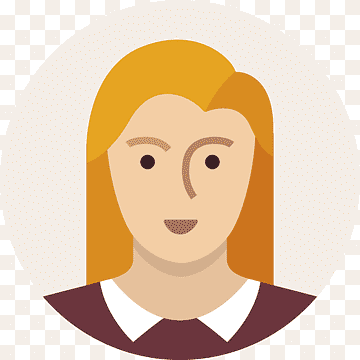
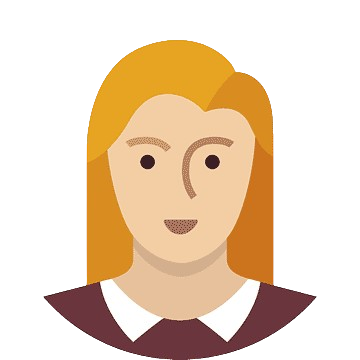
alteração layout segunda parte

diff --git a/src/pages/Home/Home.jsx b/src/pages/Home/Home.jsx
@@ -1,6 +1,6 @@
 import React, { useState, useContext, useEffect } from "react";
 import Button from "../../components/Button";
-import avatarVazio from "../../../src/assets/avatar-vazio.jpg";
+import avatarVazio from "../../../src/assets/avatar-vazio.png";
 import avatarFeminino from "../../../src/assets/avatar-feminino.png";
 import avatarMasculino from "../../../src/assets/avatar-masculino.png";
 import useLogout from "../../hooks/useLogout";
@@ -67,16 +67,8 @@ function Home() {
     setModalOpen(true);
   };
 
-  let avatarPacient;
+  const imgPacient = gender === "Feminino" ? avatarFeminino : gender === "Masculino" ? avatarMasculino : avatarVazio
 
-  switch (avatarPacient) {
-    case "":
-      
-      break;
-  
-    default:
-      break;
-  }
 
   return (
     <>
@@ -98,18 +90,15 @@ function Home() {
               <div className="container-patient">
                 <div className="section-flex">
                   <div className="patient-avatar">
-                    <img src={
-                      gender === "masculino" ?
-                      avatarMasculino
-                      : gender === "feminino" 
-                      ? avatarFeminino
-                      : avatarVazio
-                      } className="avatar-gender" alt="Avatar do Paciente" />
+                    <img src={imgPacient} className="avatar-gender" alt="Avatar do Paciente" />
                   </div>
                   <div className="info-patient">
                     <h2>
                       Name: <span>{namePacient}</span>
                     </h2>
+                    <p>
+                      Sexo: <span>{gender}</span>
+                    </p>
                     <p>
                       Tipo de exame: <span>{positionPacient}</span>
                     </p>

diff --git a/src/pages/Home/styles.js b/src/pages/Home/styles.js
@@ -2,6 +2,7 @@ import styled from "styled-components";
 
 export const ContainerHome = styled.div`
     display: block;
+    padding: 1rem; 
 `
 
 export const Header = styled.div`
@@ -26,6 +27,11 @@ export const Main = styled.div`
   grid-row-gap: 15px;
   border: 1px solid;
 
+  @media (max-width: 1024px) {
+    grid-template-columns: 1fr;
+  }
+
+
   .section-user {
     max-width: 300px;
   }
@@ -42,13 +48,15 @@ export const Main = styled.div`
     max-width: 600px;
     padding: 15px;
     height: auto;
-    border-radius: 5%;
-    background-color: #dedede;
+    border-radius: 8px;
+    background-color: #564E58;
 
 
   }
   .info-patient {
-    width: 250px;
+    display: flex;
+    gap: 5px;
+    flex-direction: column;
     border-radius: 10px;
     z-index: 998;
   }

diff --git a/src/components/Input Select/styles.js b/src/components/Input Select/styles.js
@@ -23,13 +23,13 @@ export const ContainerSelect = styled(Select)`
   .Select__control {
     height: 40px;
     width: 100%;
-    border: 1px solid #a1a1a1;
+    border: 1px solid #00ffff;
     border-radius: 0;
     cursor: pointer;
   }
 
   .Select__control:hover {
-    border-color: #a1a1a1;
+    box-shadow: 0 0 15px rgba(0, 255, 255, 0.5);
   }
 
   .Select__control--is-focused {
@@ -50,9 +50,9 @@ export const ContainerSelect = styled(Select)`
   }
 
   .Select__option--is-focused {
-    background-color: #c0e10e;
+    background-color: #00ffff;
   }
   .Select__option--is-selected {
-    background-color: #e9e84d;
+    background-color: #00bfff;
   }
 `;

diff --git a/src/components/modal/styles.css b/src/components/modal/styles.css
@@ -6,6 +6,8 @@
     right: 0;
     bottom: 0;
     z-index: 999;
+
+
 }
 .modal-content {
     position: absolute;
@@ -16,11 +18,13 @@
     margin-right: -50%;
     transform: translate(-50%, -50%);
     .modal {
-      background-color: aliceblue;
+      background-color: #EAF0CE;
       width: 100%;
       min-width: 600px;
       padding: 2rem;
       z-index: 999;
+      color: #000;
+      border-radius: 8px;
       h2 {
         padding: 1rem 0;
       }

diff --git a/src/index.jsx b/src/index.jsx
@@ -3,7 +3,7 @@ import { createRoot } from "react-dom/client";
 import Modal from "react-modal";
 import App from "./App.jsx";
 import { BrowserRouter as Router } from 'react-router-dom';
-import GlobalStyles from './styles.js'
+import GlobalStyles from './styles/globalStyles.js'
 
 import AuthProvider from "./context/authContext";
 import { PacientInfoProvider } from "./hooks/pacientContext.jsx";

diff --git a/src/styles/theme.js b/src/styles/theme.js
@@ -1,0 +1,19 @@
+const theme = {
+    colors: {
+      primary: '#007bff',
+      secondary: '#6c757d',
+      background: '#f8f9fa',
+      text: '#343a40',
+    },
+    fonts: {
+      main: 'Arial, sans-serif',
+      heading: 'Georgia, serif',
+    },
+    spacing: {
+      small: '8px',
+      medium: '16px',
+      large: '32px',
+    },
+  };
+  
+  export default theme;

diff --git a/src/components/Input Select/index.jsx b/src/components/Input Select/index.jsx
@@ -27,8 +27,8 @@ function OptionSelect({
   ];
   const localOptionsGender = [
     { value: "não informa", label: "não informa"},
-    { value: "Masculino", label: "masculino" },
-    { value: "feminino", label: "feminino" },
+    { value: "Masculino", label: "Masculino" },
+    { value: "Feminino", label: "Feminino" },
   ];
 
   let selectedoptions;

diff --git a/src/components/controls/styles.js b/src/components/controls/styles.js
@@ -10,7 +10,7 @@ export const ContainerControl = styled.div`
     flex-direction: column;
     align-items: center;
     justify-content: center;
-    background-color: #ecf0f1;
+    background-color: #564E58;
     border: 1px solid #ddd;
     gap: 1rem;
     padding: 1rem;

diff --git a/src/pages/Signin/styles.js b/src/pages/Signin/styles.js
@@ -14,7 +14,9 @@ export const Container = styled.div`
     border-radius: 15px;
     box-shadow: 0 0 20px rgba(0, 255, 255, 0.4);
     text-align: center;
-    width: 450px;
+    max-width: 450px;
+    min-width: 350px;
+    width: 100%;
 
   }
 

diff --git a/src/components/modal/styles.js b/src/components/modal/styles.js
@@ -21,7 +21,7 @@ export const ContainerModal = styled.div`
   }
   .modal-content {
     .modal {
-      background-color: aliceblue;
+      background-color: #564E58;
       width: 40%;
       min-width: 300px;
       padding: 2rem;
